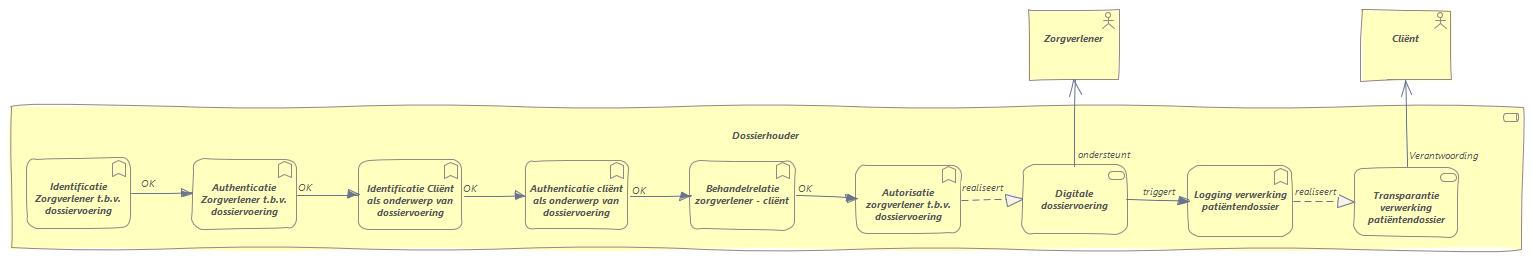
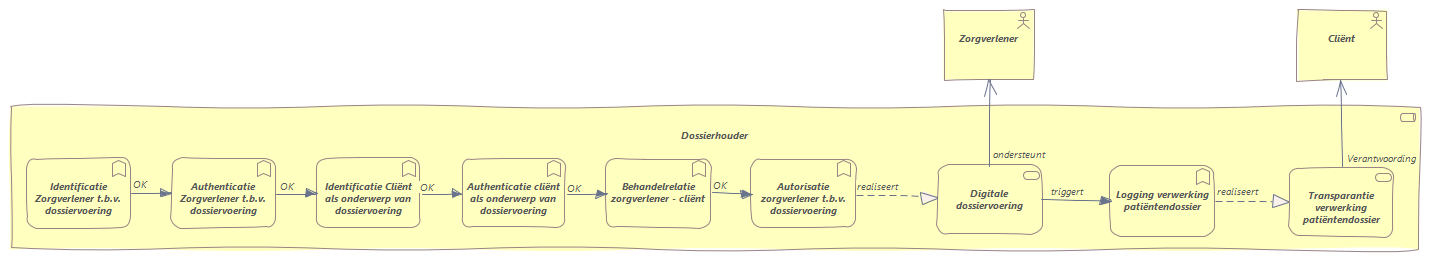
update

diff --git a/docs/EARoot/EA3/EA16.htm b/docs/EARoot/EA3/EA16.htm
@@ -106,7 +106,7 @@
 	<!-- CUSTOM -->
 	<div class=previewPanel></div>
 	<div class="ObjectTitle">Dossiervoering - vertrouwensfuncties</div>
-	<div class="ObjectDetailsNotes">Vertrouwensfuncties zijn functies die op organisatorisch en technisch niveau bijdragen aan het vertrouwen dat bij het verzenden en raadpleegbaar maken van gezondheidsgegevens de veiligheid van de verwerking en de privacy van zowel de cli&#235;nt als de zorgverlener gewaarborgd zijn.&lt;br/&gt;&lt;br/&gt;Hieronder een versimpelde schematische weergave van de samenhang van de vertrouwensfuncties binnen de muren van een zorgaanbieder die de verantwoordelijkheden van de dossierhouder weergeven.&lt;br/&gt;&lt;br/&gt;&lt;font color=&quot;#708090&quot;&gt;&lt;b&gt;Vanuit dit basispatroon zal afgeleid worden&lt;/b&gt;&lt;/font&gt; - Welke kaders van toepassing zijn&lt;br/&gt;&lt;br/&gt;Dit patroon heeft niet direct te maken met interoperabiliteit, maar moet op orde zijn als basis voor verzending, beschikbaar stelling, ontvangst, en raadpleging.&lt;br/&gt;&lt;br/&gt;</div>
+	<div class="ObjectDetailsNotes">Vertrouwensfuncties zijn functies die op organisatorisch en technisch niveau bijdragen aan het vertrouwen dat bij het verzenden en raadpleegbaar maken van gezondheidsgegevens de veiligheid van de verwerking en de privacy van zowel de cli&#235;nt als de zorgverlener gewaarborgd zijn.&lt;br/&gt;&lt;br/&gt;Hieronder een versimpelde schematische weergave van de samenhang van de vertrouwensfuncties binnen de muren van een zorgaanbieder die de verantwoordelijkheden van de dossierhouder weergeven.&lt;br/&gt;</div>
 
 	<hr>
 	<!-- END CUSTOM -->
@@ -114,18 +114,18 @@
 <img src="EA17.png" usemap="#EA17" border="0" />
 
 <MAP NAME="EA17">
-<area shape="rect" coords="1029,10,1119,80" href="../EA6/EA2/EA7/EA333.htm" target="_self">
-<area shape="rect" coords="1361,10,1451,80" href="../EA6/EA2/EA7/EA331.htm" target="_self">
-<area shape="rect" coords="1022,165,1127,235" href="../EA6/EA2/EA3/EA289.htm" target="_self">
-<area shape="rect" coords="1354,167,1459,237" href="../EA6/EA2/EA4/EA294.htm" target="_self">
-<area shape="rect" coords="1188,166,1293,236" href="../EA6/EA2/EA4/EA293.htm" target="_self">
-<area shape="rect" coords="690,160,795,230" href="../EA6/EA2/EA6/EA315.htm" target="_self">
-<area shape="rect" coords="524,160,629,230" href="../EA6/EA2/EA6/EA329.htm" target="_self">
-<area shape="rect" coords="358,160,463,230" href="../EA6/EA2/EA6/EA316.htm" target="_self">
-<area shape="rect" coords="856,164,961,234" href="../EA6/EA2/EA6/EA328.htm" target="_self">
-<area shape="rect" coords="192,159,297,229" href="../EA6/EA2/EA6/EA327.htm" target="_self">
+<area shape="rect" coords="944,10,1034,80" href="../EA6/EA2/EA7/EA333.htm" target="_self">
+<area shape="rect" coords="1297,10,1387,80" href="../EA6/EA2/EA7/EA331.htm" target="_self">
+<area shape="rect" coords="937,165,1042,235" href="../EA6/EA2/EA3/EA289.htm" target="_self">
+<area shape="rect" coords="1289,167,1394,237" href="../EA6/EA2/EA4/EA294.htm" target="_self">
+<area shape="rect" coords="1110,166,1215,236" href="../EA6/EA2/EA4/EA293.htm" target="_self">
+<area shape="rect" coords="606,158,711,228" href="../EA6/EA2/EA6/EA315.htm" target="_self">
+<area shape="rect" coords="461,158,566,228" href="../EA6/EA2/EA6/EA329.htm" target="_self">
+<area shape="rect" coords="316,158,421,228" href="../EA6/EA2/EA6/EA316.htm" target="_self">
+<area shape="rect" coords="751,158,856,228" href="../EA6/EA2/EA6/EA328.htm" target="_self">
+<area shape="rect" coords="171,158,276,228" href="../EA6/EA2/EA6/EA327.htm" target="_self">
 <area shape="rect" coords="26,158,131,228" href="../EA6/EA2/EA6/EA322.htm" target="_self">
-<area shape="rect" coords="10,107,1522,248" href="../EA6/EA2/EA8/EA335.htm" target="_self">
+<area shape="rect" coords="10,107,1419,248" href="../EA6/EA2/EA8/EA335.htm" target="_self">
 </MAP>
  </div>
 	<!-- <div class="ObjectTitle">Dossiervoering - vertrouwensfuncties : Business Layer diagram</div> -->
@@ -137,7 +137,7 @@
 		</tr>
 		<tr>
 			<td width="15%" class="ObjectDetailsTopic">Modified:</td>
-			<td width="85%" class="ObjectDetailsValue">18-11-2025 10:19:31</td>
+			<td width="85%" class="ObjectDetailsValue">18-11-2025 10:29:51</td>
 		</tr>
 		<tr style="padding-top: 10px;">
 			<td width="15%" class="ObjectDetailsTopic"><button onclick="switchProjectProperties()"><img src="../../images/plus03.gif" align="absmiddle" id="proj" /></button>Project:</td>
@@ -167,7 +167,7 @@
 		</tr>
 		<tr>
 			<td width="15%" class="ObjectDetailsTopic">Aangepast:</td>
-			<td width="85%" class="ObjectDetailsValue">18-11-2025 10:19:31</td>
+			<td width="85%" class="ObjectDetailsValue">18-11-2025 10:29:51</td>
 		</tr>
 		<tr>
 			<td class="ObjectDetailsTopic">Auteur:</td>
@@ -184,7 +184,7 @@
 	<table> -->
 	<hr>
 	<!-- END CUSTOM -->
-	<!-- <div class="ObjectDetailsNotes">Vertrouwensfuncties zijn functies die op organisatorisch en technisch niveau bijdragen aan het vertrouwen dat bij het verzenden en raadpleegbaar maken van gezondheidsgegevens de veiligheid van de verwerking en de privacy van zowel de cli&#235;nt als de zorgverlener gewaarborgd zijn.&lt;br/&gt;&lt;br/&gt;Hieronder een versimpelde schematische weergave van de samenhang van de vertrouwensfuncties binnen de muren van een zorgaanbieder die de verantwoordelijkheden van de dossierhouder weergeven.&lt;br/&gt;&lt;br/&gt;&lt;font color=&quot;#708090&quot;&gt;&lt;b&gt;Vanuit dit basispatroon zal afgeleid worden&lt;/b&gt;&lt;/font&gt; - Welke kaders van toepassing zijn&lt;br/&gt;&lt;br/&gt;Dit patroon heeft niet direct te maken met interoperabiliteit, maar moet op orde zijn als basis voor verzending, beschikbaar stelling, ontvangst, en raadpleging.&lt;br/&gt;&lt;br/&gt;</div>
+	<!-- <div class="ObjectDetailsNotes">Vertrouwensfuncties zijn functies die op organisatorisch en technisch niveau bijdragen aan het vertrouwen dat bij het verzenden en raadpleegbaar maken van gezondheidsgegevens de veiligheid van de verwerking en de privacy van zowel de cli&#235;nt als de zorgverlener gewaarborgd zijn.&lt;br/&gt;&lt;br/&gt;Hieronder een versimpelde schematische weergave van de samenhang van de vertrouwensfuncties binnen de muren van een zorgaanbieder die de verantwoordelijkheden van de dossierhouder weergeven.&lt;br/&gt;</div>
  -->
 </div>
 
